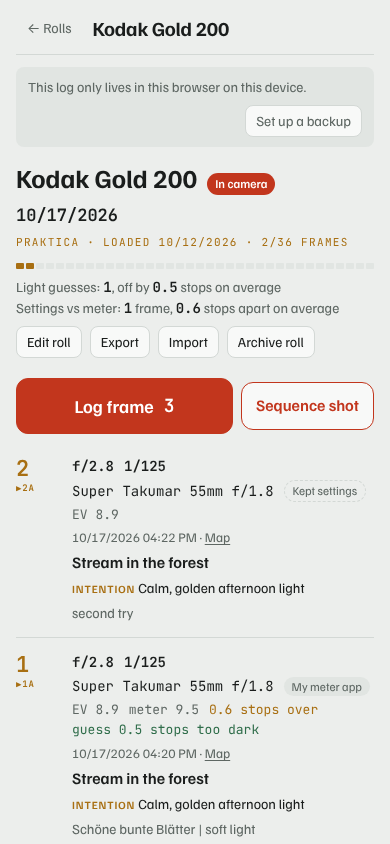
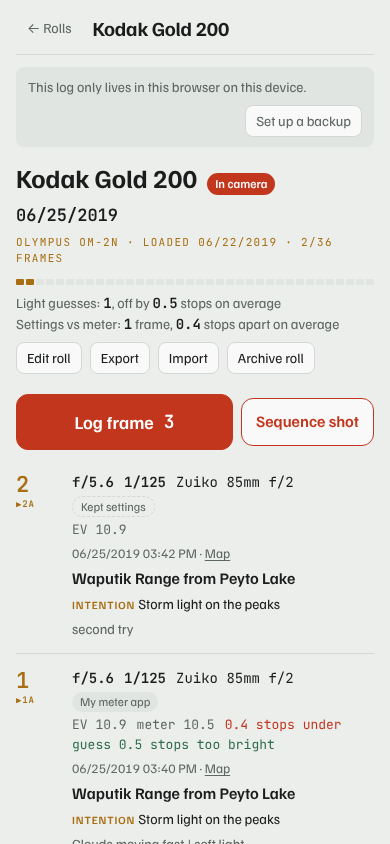
Screenshots: use a real film photo as the sample scan
Waputik Range by Jeekyu1980 (Wikimedia Commons, CC BY-SA 4.0). Sample data
follows the documented camera, lens, film and exposure. Credit added to
README and THIRD-PARTY-NOTICES.

Claude-Session: https://claude.ai/code/session_01KcJUmRpgootFaasABVMDKB

diff --git a/tests/e2e.js b/tests/e2e.js
@@ -27,7 +27,7 @@ async function ghRoute(route) {
 (async () => {
   await new Promise(r => server.listen(8765, r)); const URL0 = 'http://localhost:8765/';
   const b = await chromium.launch();
-  const ctx = await b.newContext({ locale: 'en-US', viewport: { width: 390, height: 844 }, geolocation: { latitude: 50.73741, longitude: 7.09823, accuracy: 9 }, permissions: ['geolocation'], acceptDownloads: true });
+  const ctx = await b.newContext({ locale: 'en-US', viewport: { width: 390, height: 844 }, geolocation: { latitude: 51.7256, longitude: -116.5228, accuracy: 9 }, permissions: ['geolocation'], acceptDownloads: true });
   await ctx.route('https://api.github.com/**', ghRoute);
   const p = await ctx.newPage(); const errs = [];
   p.on('pageerror', e => errs.push('pageerror ' + e.message)); p.on('console', m => { if (m.type() === 'error') errs.push('console ' + m.text()); });
@@ -40,42 +40,44 @@ async function ghRoute(route) {
   ok((await p.locator('#main').innerText()).includes('No rolls yet'), 'empty state shown');
   await shot('01-empty');
   // new roll
-  await p.click('#newRollBtn'); await p.fill('#r-stock', 'Kodak Gold 200'); await p.fill('#r-loaded', '2026-10-12'); await p.click('#rollForm button[type=submit] >> nth=1'); await p.waitForTimeout(300);
+  // sample data follows the documented settings of tests/fixtures/sample-scan.jpg (see THIRD-PARTY-NOTICES.md)
+  await p.evaluate(async () => { const d = FilmLogStore.db; await d.doc('settings/cameras').set({ list: ['Olympus OM-2N'] }); await d.doc('settings/lenses').set({ list: ['Zuiko 85mm f/2'] }); }); await p.waitForTimeout(200);
+  await p.click('#newRollBtn'); await p.fill('#r-stock', 'Kodak Gold 200'); await p.fill('#r-loaded', '2019-06-22'); await p.click('#rollForm button[type=submit] >> nth=1'); await p.waitForTimeout(300);
   ok(await p.locator('#logBtn').isVisible(), 'roll created and opened');
   ok(!(await p.locator('#seqBtn').count()), 'no sequence button before first frame');
   // frame 1 with GPS + scan
   await p.click('#logBtn'); await p.check('#f-geo'); await p.waitForTimeout(400);
-  ok((await p.inputValue('#f-loc')) === '50.73741, 7.09823', 'GPS toggle fills location');
+  ok((await p.inputValue('#f-loc')) === '51.72560, -116.52280', 'GPS toggle fills location');
   ok(!(await p.locator('#geoBtn').count()) && await p.locator('#f-loc').getAttribute('type') === 'hidden', 'no manual location box');
   ok((await p.inputValue('#f-meter')) === 'App', 'metering defaults to the neutral App');
   await p.selectOption('#f-meter', '__add'); await p.fill('#f-meter-new', 'My meter app'); await p.click('#f-meter-addbtn'); await p.waitForTimeout(300);
   ok((await p.inputValue('#f-meter')) === 'My meter app', 'own metering method can be added');
-  await p.click('.chips[data-for="f-ap"] button[data-v="2.8"]'); await p.click('.chips[data-for="f-sh"] button[data-v="1/125"]');
+  await p.click('.chips[data-for="f-ap"] button[data-v="5.6"]'); await p.click('.chips[data-for="f-sh"] button[data-v="1/125"]');
   ok((await p.inputValue('#f-meterunit')) === 'EV', 'meter reading defaults to EV'); 
-  await p.fill('#f-meterval', '9.5'); await p.fill('#f-subject', 'Stream in the forest'); await p.fill('#f-notes', 'Schöne bunte Blätter | soft light');
-  const png = await (async () => { const pg = await ctx.newPage(); await pg.setContent('<body style="margin:0;background:radial-gradient(circle at 70% 20%,#f4d58d 0,#e0a84a 18%,transparent 45%),linear-gradient(170deg,#c9a24b 0,#6f8f3a 45%,#2f4a24 75%,#1d2b1a 100%)">'); const buf = await pg.screenshot({ clip: { x: 0, y: 0, width: 300, height: 200 } }); await pg.close(); return buf; })();
-  await p.setInputFiles('#f-photo-file', { name: 'scan.png', mimeType: 'image/png', buffer: png }); await p.waitForTimeout(500);
-  await p.fill('#f-date', '2026-10-17'); await p.fill('#f-time', '16:20'); await p.fill('#f-guess', '9'); await p.fill('#f-intent', 'Calm, golden afternoon light');
+  await p.fill('#f-meterval', '10.5'); await p.fill('#f-subject', 'Waputik Range from Peyto Lake'); await p.fill('#f-notes', 'Clouds moving fast | soft light');
+  const scan = fs.readFileSync(path.join(__dirname, 'fixtures', 'sample-scan.jpg'));
+  await p.setInputFiles('#f-photo-file', { name: 'scan.jpg', mimeType: 'image/jpeg', buffer: scan }); await p.waitForTimeout(500);
+  await p.fill('#f-date', '2019-06-25'); await p.fill('#f-time', '15:40'); await p.fill('#f-guess', '11'); await p.fill('#f-intent', 'Storm light on the peaks');
   ok((await p.locator('#f-photo-status').innerText()).startsWith('Uploaded'), 'scan attached');
-  await p.fill('#f-lessons', 'Sharp and warm, a touch dark. Open up half a stop under trees.');
+  await p.fill('#f-lessons', 'Sky is right, the forest went almost black. Half a stop more next time.');
   await p.setViewportSize({ width: 390, height: 2050 }); await p.evaluate(() => { document.activeElement.blur(); document.querySelector('.sheet').scrollTop = 0; }); await p.waitForTimeout(2800); await shot('02a-form'); await p.setViewportSize({ width: 390, height: 844 });
   await p.click('#shotForm button[type=submit] >> nth=1'); await p.waitForTimeout(400);
   ok(await p.locator('#shotList img.thumb:not([hidden])').count() === 1, 'scan thumbnail shows in list');
-  ok((await p.locator('#shotList').innerText()).includes('EV 8.9') && (await p.locator('#shotList').innerText()).includes('My meter app'), 'EV line and own method show');
+  ok((await p.locator('#shotList').innerText()).includes('EV 10.9') && (await p.locator('#shotList').innerText()).includes('My meter app'), 'EV line and own method show');
   // sequence shot
-  await p.click('#seqBtn'); await p.fill('#f-date', '2026-10-17'); await p.fill('#f-time', '16:22'); await p.fill('#f-notes', 'second try'); await p.click('#shotForm button[type=submit] >> nth=1'); await p.waitForTimeout(300);
+  await p.click('#seqBtn'); await p.fill('#f-date', '2019-06-25'); await p.fill('#f-time', '15:42'); await p.fill('#f-notes', 'second try'); await p.click('#shotForm button[type=submit] >> nth=1'); await p.waitForTimeout(300);
   await p.waitForTimeout(2800); await shot('02-roll');
-  const s1 = await snap(); ok(JSON.parse(s1)[0][2].length === 2 && s1.includes('2|2.8|1/125|Kept settings|Stream in the forest|second try|50.73741, 7.09823|'), 'sequence shot copied frame');
+  const s1 = await snap(); ok(JSON.parse(s1)[0][2].length === 2 && s1.includes('2|5.6|1/125|Kept settings|Waputik Range from Peyto Lake|second try|51.72560, -116.52280|'), 'sequence shot copied frame');
   // the GPS switch is remembered, and switching it off sticks too
   await p.click('#logBtn'); await p.waitForTimeout(400);
-  ok(await p.isChecked('#f-geo') && (await p.inputValue('#f-loc')) === '50.73741, 7.09823', 'GPS switch still on for the next frame');
+  ok(await p.isChecked('#f-geo') && (await p.inputValue('#f-loc')) === '51.72560, -116.52280', 'GPS switch still on for the next frame');
   await p.uncheck('#f-geo'); ok((await p.inputValue('#f-loc')) === '', 'switching off clears the location'); await p.click('[data-close]');
   await p.reload(); await p.waitForTimeout(500);
   await p.click('#seqBtn'); await p.waitForTimeout(300);
   ok(!(await p.isChecked('#f-geo')) && (await p.inputValue('#f-loc')) === '', 'GPS switch stays off after reload, also for sequence shots');
   await p.check('#f-geo'); await p.waitForTimeout(400); await p.click('[data-close]');
   await p.click('[data-shot] .n >> nth=0'); await p.waitForTimeout(200);
-  ok(await p.isChecked('#f-geo') && (await p.inputValue('#f-loc')) === '50.73741, 7.09823', 'editing a tagged frame keeps its location'); await p.click('[data-close]');
+  ok(await p.isChecked('#f-geo') && (await p.inputValue('#f-loc')) === '51.72560, -116.52280', 'editing a tagged frame keeps its location'); await p.click('[data-close]');
   await p.click('#logBtn'); await p.waitForTimeout(300); ok((await p.inputValue('#f-meter')) === 'My meter app', 'new frame starts with the method used last'); await p.click('[data-close]');
   // persistence across reload
   await p.reload(); await p.waitForTimeout(500);
@@ -88,7 +90,7 @@ async function ghRoute(route) {
   let files = await list(); console.log('   folder:', files.join(', '));
   ok(files.includes('settings.json') && files.filter(f => /^rolls\/.*\.(json|md)$/.test(f)).length === 2 && files.filter(f => f.startsWith('scans/')).length === 1, 'folder has json, md and scan');
   const md = await p.evaluate(async () => { const d = await (await navigator.storage.getDirectory()).getDirectoryHandle('rolls'); for await (const [n, h] of d.entries()) if (n.endsWith('.md')) return (await h.getFile()).text(); });
-  ok(md.includes('| 1 | 2.8 | 1/125 |') && md.includes('soft light'), 'markdown mirror readable');
+  ok(md.includes('| 1 | 5.6 | 1/125 |') && md.includes('soft light'), 'markdown mirror readable');
   // auto mirror on change
   await p.click('#logBtn'); await p.selectOption('#f-meterunit', 'lux'); await p.fill('#f-meterval', '2000'); await p.fill('#f-ap', '2.8'); await p.fill('#f-sh', '1/125'); await p.waitForTimeout(100);
   ok((await p.locator('#evLive').innerText()).includes('meter 9.6'), 'lux readings are converted to EV'); await p.fill('#f-meterval', ''); await p.fill('#f-ap', ''); await p.fill('#f-sh', ''); await p.fill('#f-subject', 'Third'); await p.click('#shotForm button[type=submit] >> nth=1'); await p.waitForTimeout(2500);

diff --git a/THIRD-PARTY-NOTICES.md b/THIRD-PARTY-NOTICES.md
@@ -12,6 +12,20 @@ keep their own licence:
 The font files are unmodified Latin subsets as distributed by the Fontsource project
 (`@fontsource/familjen-grotesk` 5.3.0 and `@fontsource/jetbrains-mono` 5.3.0).
 
+## Sample photo
+
+`tests/fixtures/sample-scan.jpg` is a scaled-down copy of
+["Waputik Range"](https://commons.wikimedia.org/wiki/File:Waputik_Range.jpg) by
+Jeekyu1980, from Wikimedia Commons, licensed under
+[CC BY-SA 4.0](https://creativecommons.org/licenses/by-sa/4.0/). It also appears, cropped
+by the app's layout, in `docs/screenshot-log-frame.png`. The photo and that screenshot
+stay under CC BY-SA 4.0; the WTFPL does not apply to them. The photo is used only by the
+test and the README, and is not part of the app. Camera, lens, film, aperture and shutter
+in the sample data follow the photographer's description; the time of day, the meter
+readings and the notes are made up.
+
+## Tools
+
 Not bundled, but used if you run the optional tools:
 
 - `tools/tag_scans.py` calls [ExifTool](https://exiftool.org) by Phil Harvey, which you install yourself.

diff --git a/README.md b/README.md
@@ -15,6 +15,8 @@ your device.
   <img src="docs/screenshot-settings.png" alt="Settings with folder backup and GitHub sync" width="260">
 </p>
 
+<sub>Sample photo: ["Waputik Range"](https://commons.wikimedia.org/wiki/File:Waputik_Range.jpg) by Jeekyu1980, [CC BY-SA 4.0](https://creativecommons.org/licenses/by-sa/4.0/), scaled down.</sub>
+
 ## What it does
 
 - **Rolls**: film, camera, default lens, loaded and archived dates, lab and development details.
@@ -131,5 +133,5 @@ EVENT SHALL THE AUTHORS BE LIABLE FOR ANY CLAIM, DAMAGES OR OTHER LIABILITY ARIS
 THE USE OF THE SOFTWARE.
 
 The bundled fonts, Familjen Grotesk and JetBrains Mono, are under the SIL Open Font License
-1.1. See [THIRD-PARTY-NOTICES.md](THIRD-PARTY-NOTICES.md). The app contains no other
-third-party code.
+1.1. The sample photo in the screenshots and the test is under CC BY-SA 4.0. See
+[THIRD-PARTY-NOTICES.md](THIRD-PARTY-NOTICES.md). The app contains no other third-party code.
